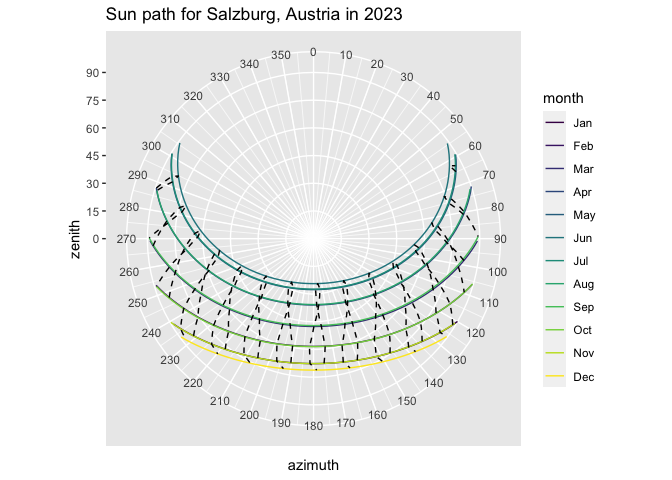
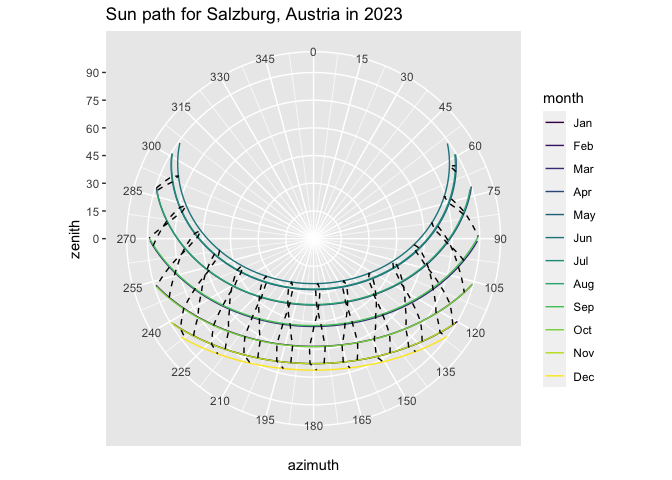
add labels to hour lines

diff --git a/sunpath.md b/sunpath.md
@@ -51,12 +51,14 @@ sunpath
 Now plot a simple sun path diagram.
 
 ``` r
-ggplot() + 
+plot <- ggplot() + 
   geom_line(data = sunpath, aes(x = azimuth, y = zenith, group = month, colour = month)) + 
   scale_y_continuous(limits = c(0, 90), breaks = seq(0, 90, by=15)) + 
-  scale_x_continuous(limits = c(0, 360), breaks = seq(0, 359, by=10)) +
+  scale_x_continuous(limits = c(0, 360), breaks = seq(0, 359, by=15)) +
   labs(title = "Sun path for Salzburg, Austria in 2023") +
   coord_polar()
+
+plot
 ```
 
 ![](sunpath_files/figure-gfm/unnamed-chunk-3-1.png)<!-- -->
@@ -68,13 +70,27 @@ hours <- sunpath |>
   filter(minute(daytime) == 0, second(daytime) == 0) |>
   mutate(hour = hour(daytime))
 
-ggplot() + 
-  geom_line(data = sunpath, aes(x = azimuth, y = zenith, colour = month)) + 
-  geom_path(data = hours, aes(x = azimuth, y = zenith, group = hour), linetype = "dashed") +
-  scale_y_continuous(limits = c(0, 90), breaks = seq(0, 90, by=15)) + 
-  scale_x_continuous(limits = c(0, 360), breaks = seq(0, 359, by=10)) +
-  labs(title = "Sun path for Salzburg, Austria in 2023") +
-  coord_polar()
+plot <- plot + 
+  geom_path(data = hours, aes(x = azimuth, y = zenith, group = hour), linetype = "dashed")
+
+plot
 ```
 
-![](sunpath_files/figure-gfm/unnamed-chunk-4-1.png)<!-- -->
+![](sunpath_files/figure-gfm/unnamed-chunk-4-1.png)<!-- --> Let’s see if
+we can add labels to those. This requires a bit of manual adjustment.
+
+``` r
+hour_ends <- hours |> filter(month == "Jun")
+
+plot <- plot +
+  geom_label(data = hour_ends, nudge_y = -6, check_overlap = TRUE, label.padding = unit(0.1, "lines"), size = 2, aes(x = azimuth, y = zenith, label = hour))
+```
+
+    ## Warning in geom_label(data = hour_ends, nudge_y = -6, check_overlap = TRUE, :
+    ## Ignoring unknown parameters: `check_overlap`
+
+``` r
+plot
+```
+
+![](sunpath_files/figure-gfm/unnamed-chunk-5-1.png)<!-- -->
